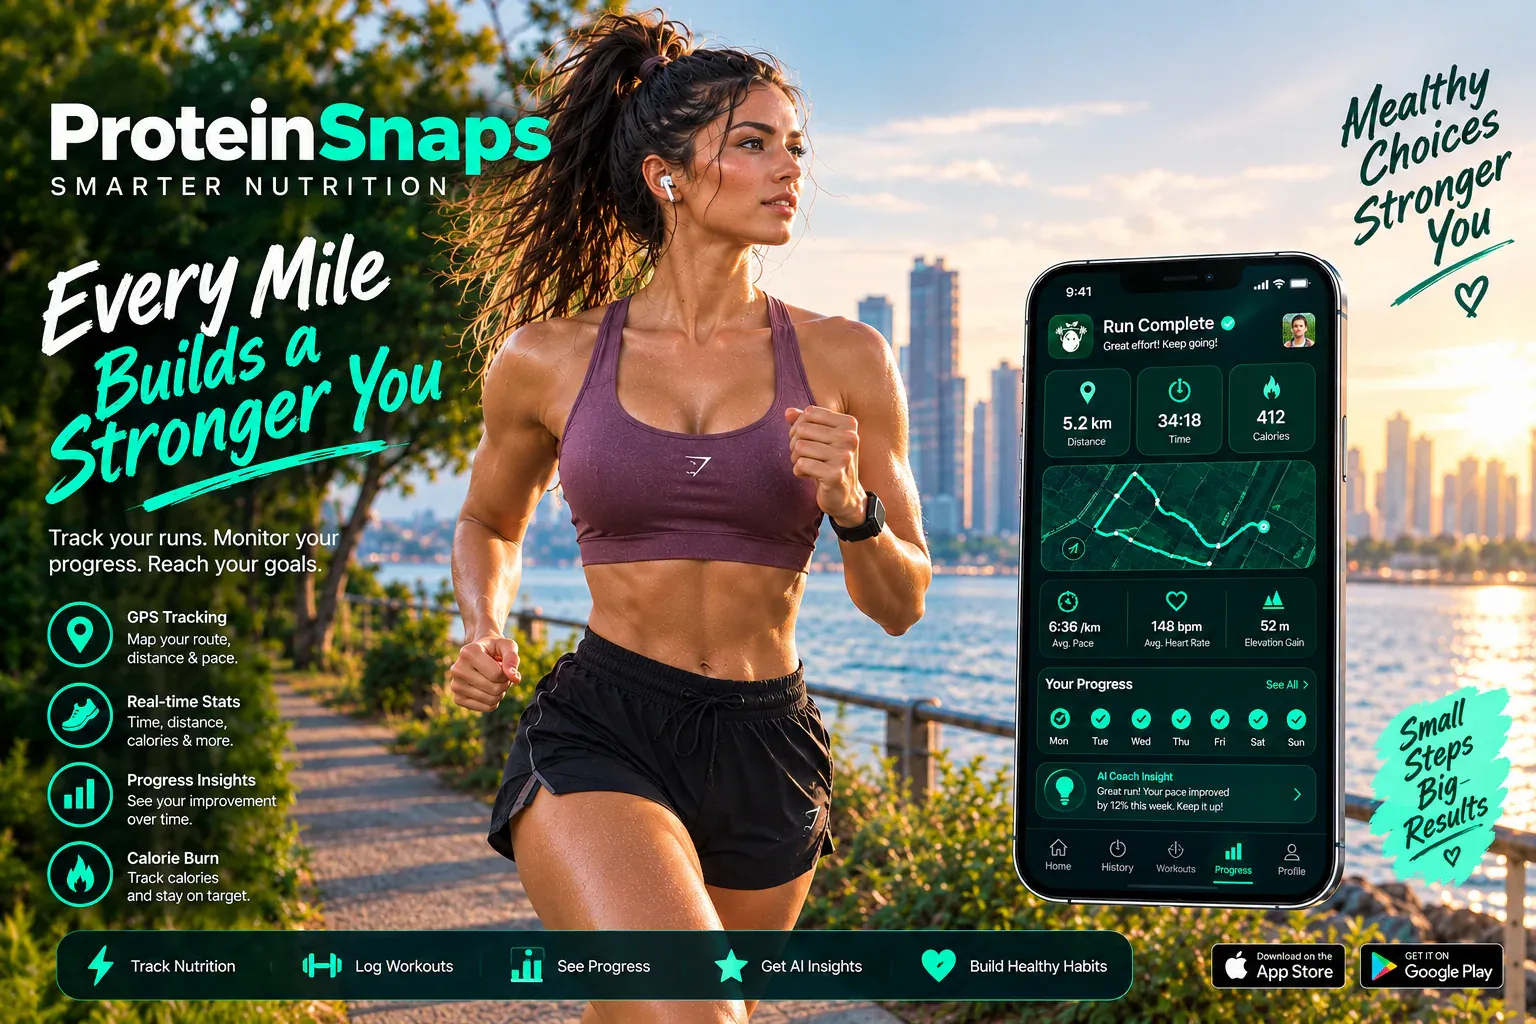
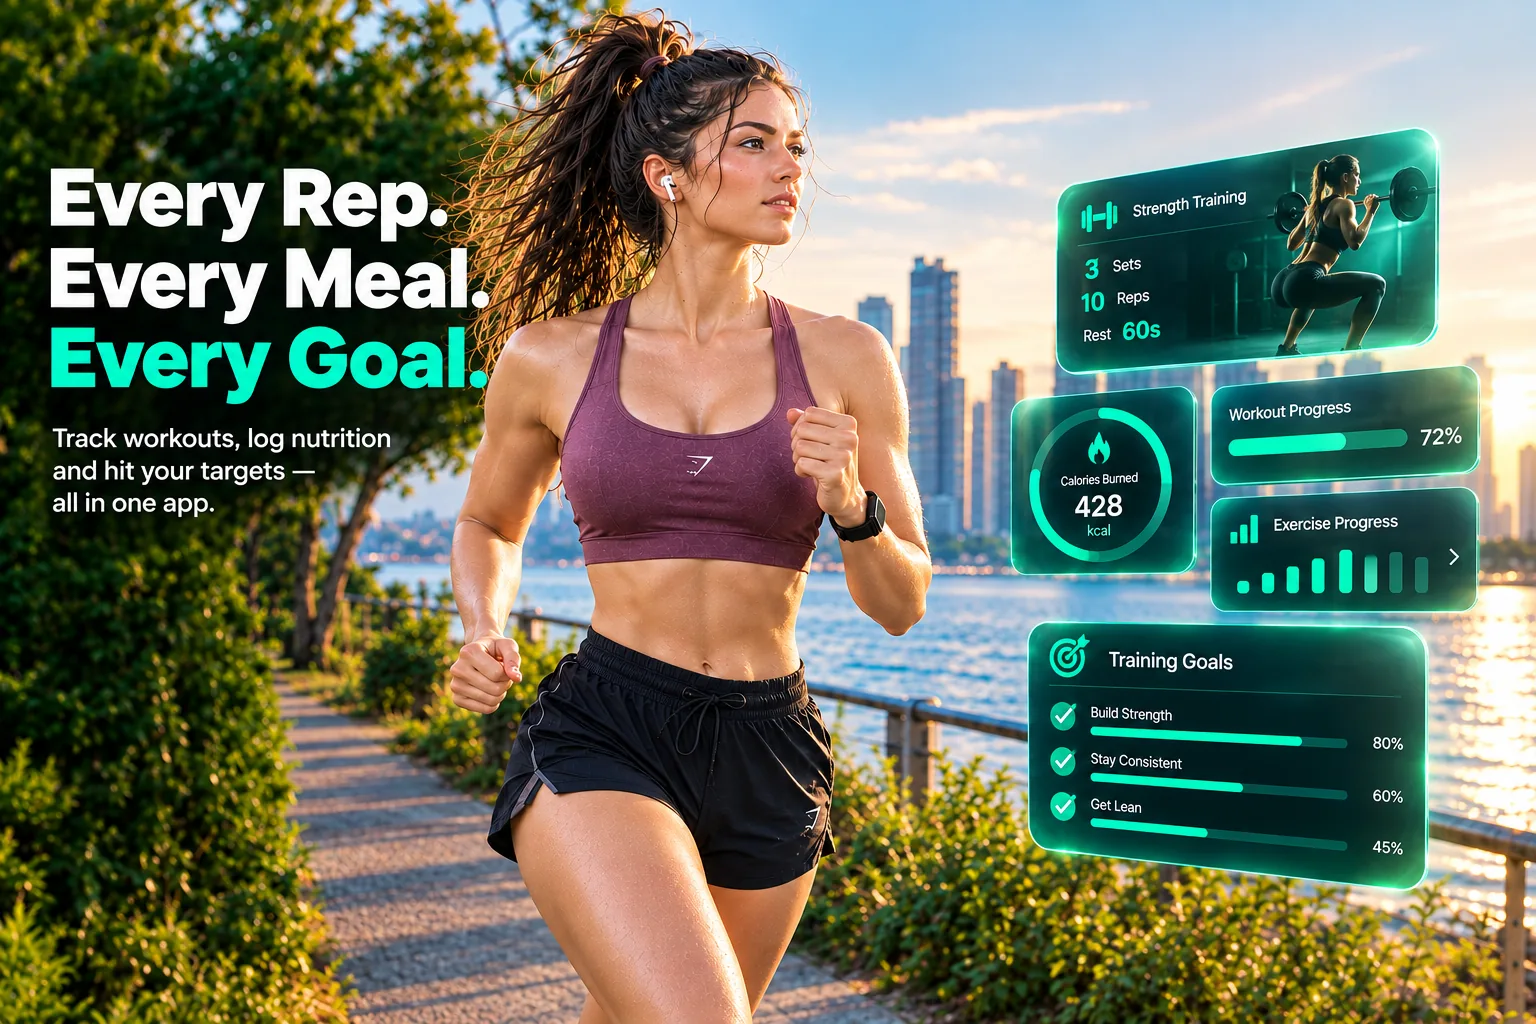
feat(proteinsnaps): update PSL-4 with workout image and matching hero slide content

diff --git a/lib/proteinsnaps/constants.ts b/lib/proteinsnaps/constants.ts
@@ -58,10 +58,10 @@ export const DESKTOP_SLIDES = [
     accentClass: "text-[#00C2FF]",
   },
   {
-    headline: "Every Mile Builds a Stronger You.",
+    headline: "Train Hard. Fuel Right.",
     description:
-      "Track your runs, monitor distance, pace and calories — and let AI coach you to your next personal best.",
-    accentWords: ["Mile", "Stronger", "You."],
+      "Log every workout, track your nutrition and let AI coach you to your strongest self.",
+    accentWords: ["Hard.", "Fuel", "Right."],
     name: "zoomIn",
     duration: 0.9,
     headlineClass: "font-sans font-black tracking-tighter",
